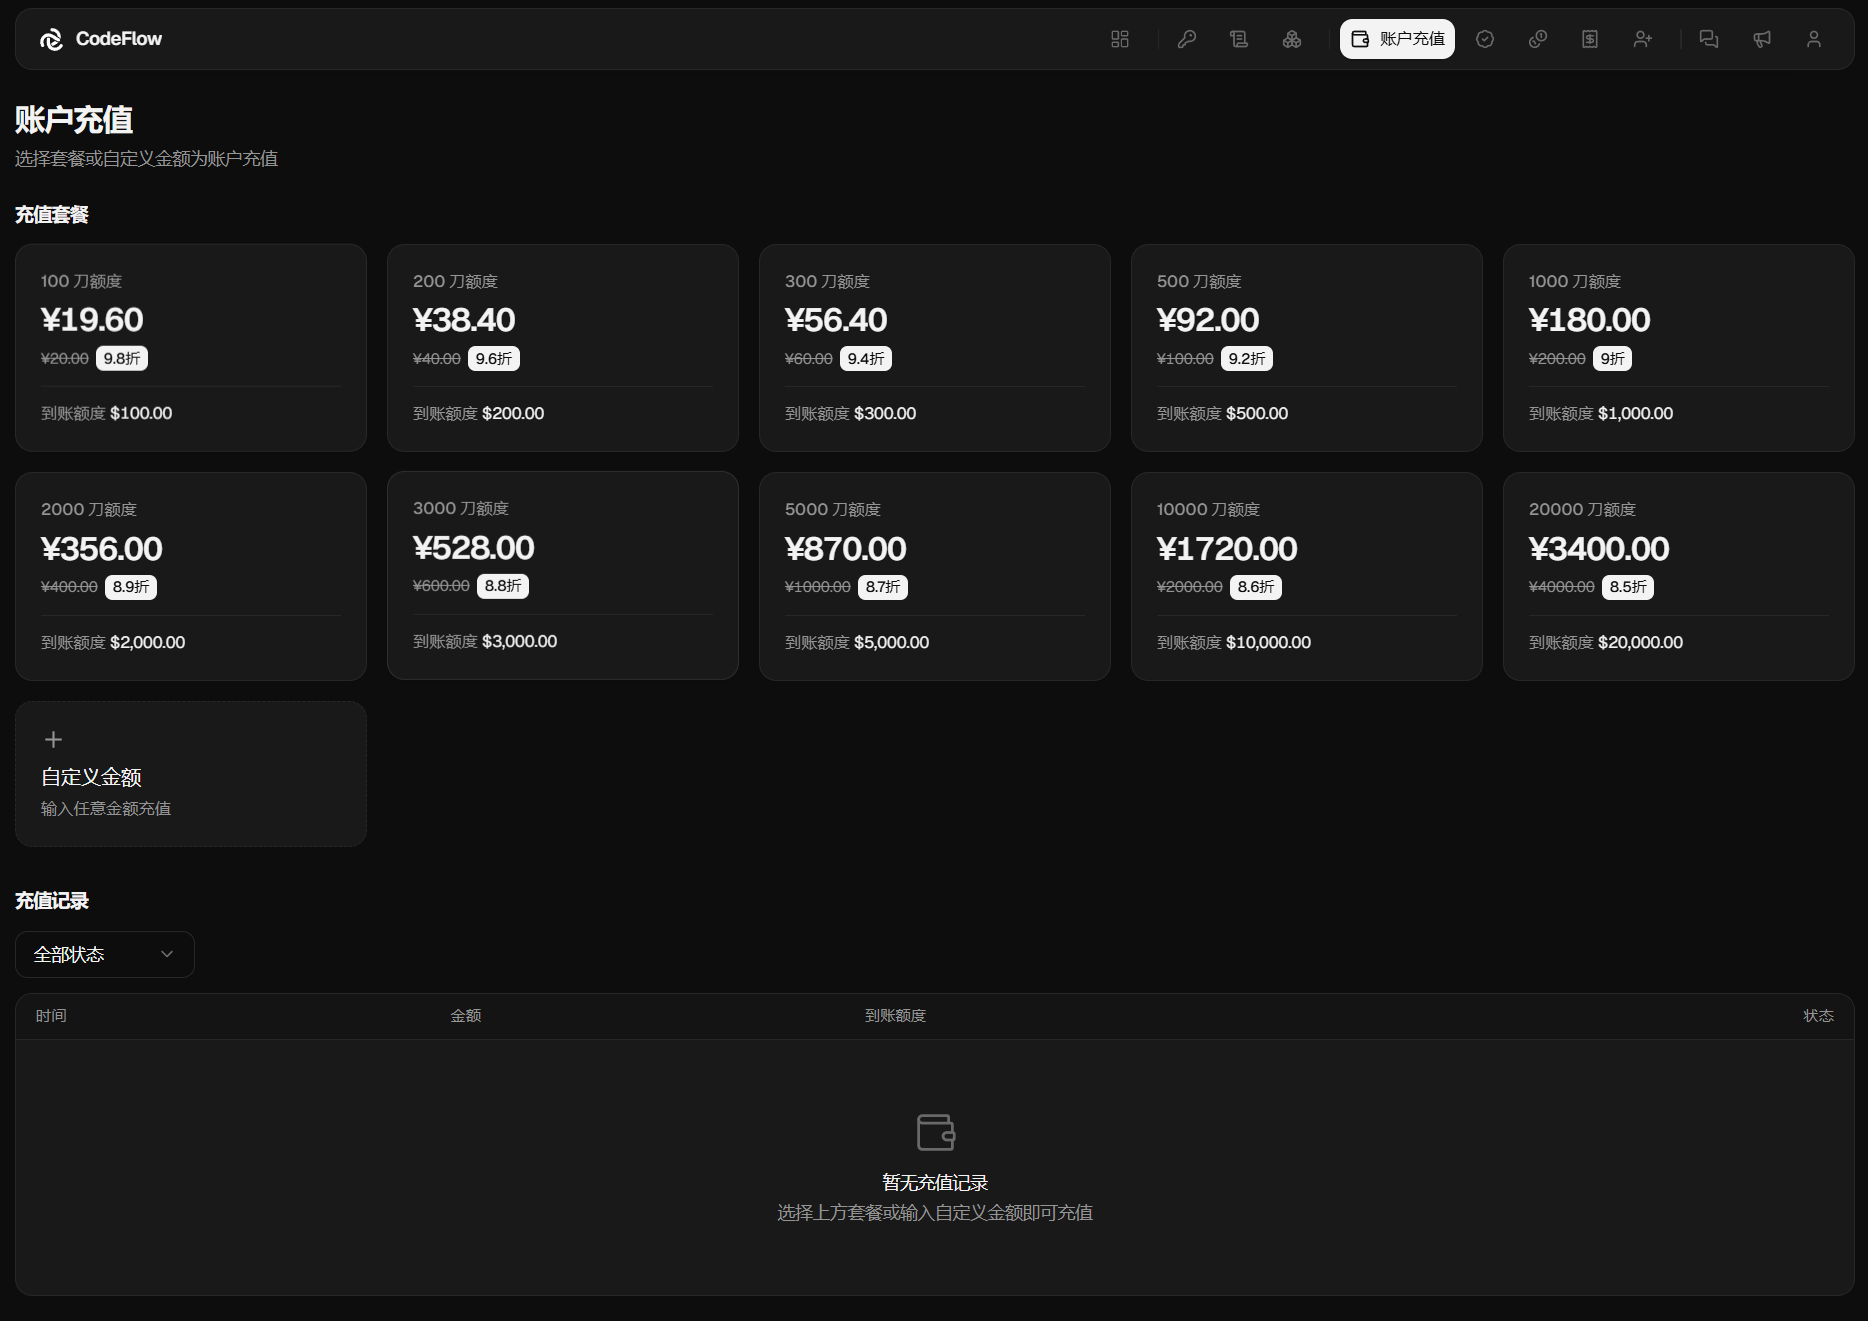
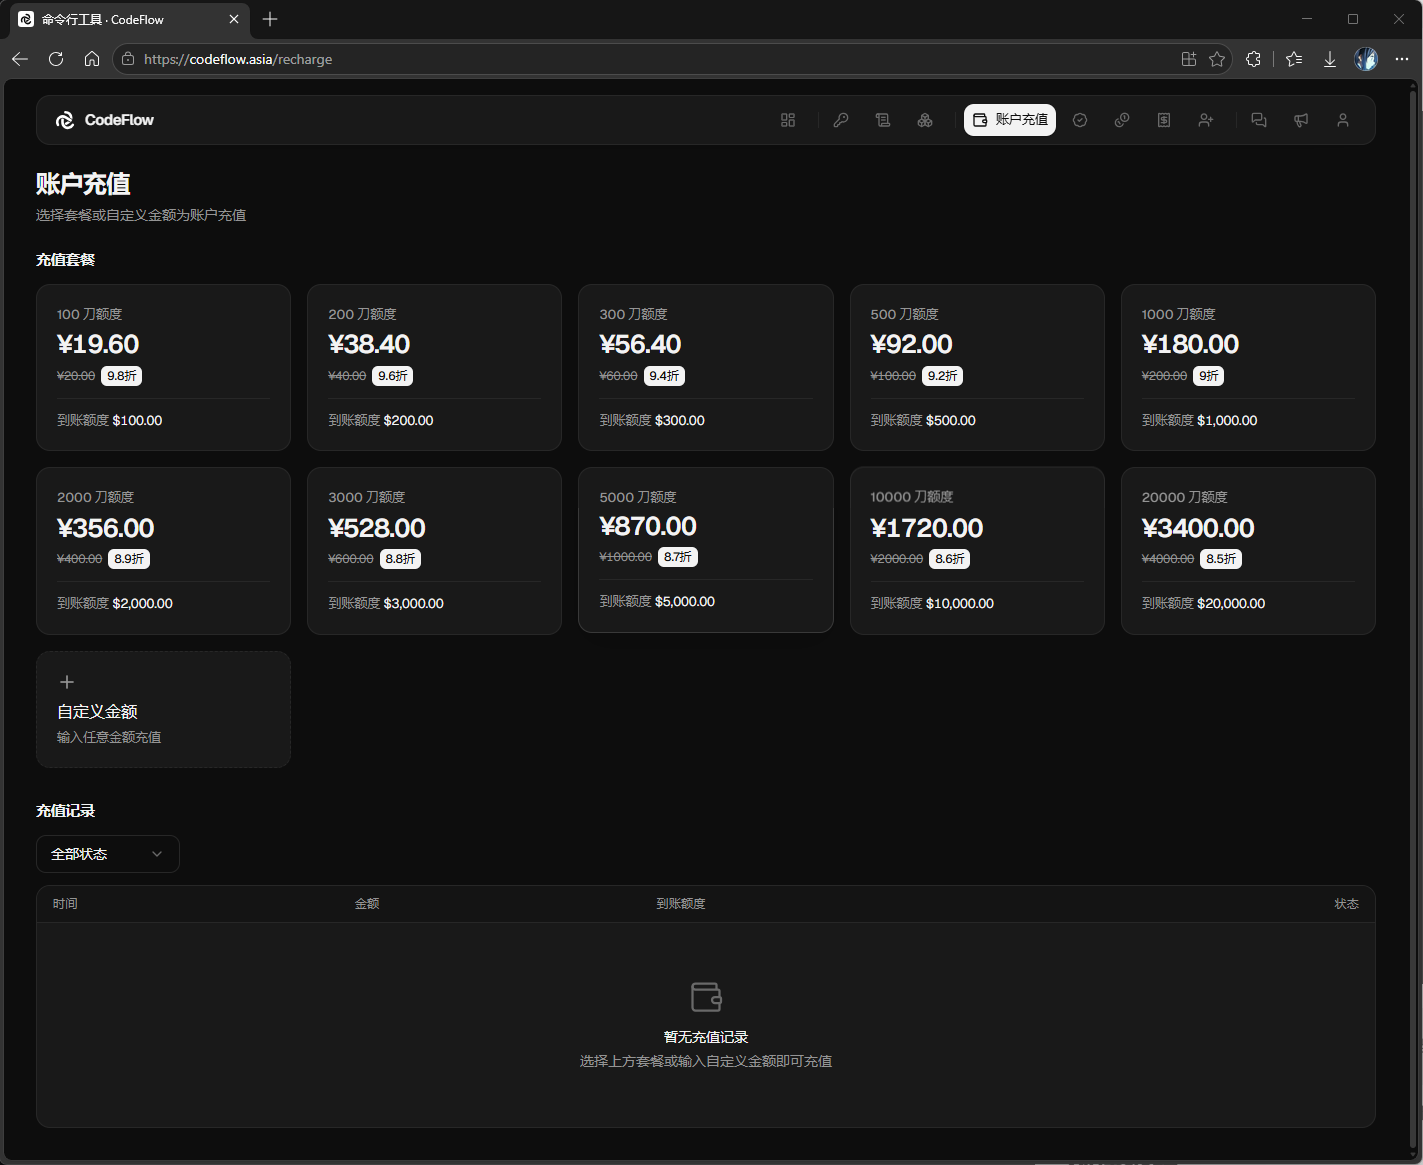
更新opencode,openclaw,快速开始页的核验日期和插图

diff --git a/guides/quick-start.md b/guides/quick-start.md
@@ -11,14 +11,14 @@
 > **数据来源与核验**
 > - **来源**：[{{SITE_NAME}}「充值优惠」]({{SITE_URL}}/#packages)
 > - **核验范围**：基础换算、充值套餐优惠与余额有效期
-> - **最后核验日期**：2026 年 8 月 18 日
+> - **最后核验日期**：2026 年 9 月 6 日
 
 进入 **账户充值**，选择预设档位或输入自定义金额，并按页面提示完成支付宝付款。付款成功后额度通常会自动到账；若长时间未到账，保留订单号并提交工单
 
 ![账户充值](/assets/images/quick-start/account-recharge.png)
 
 > **注意**
-> 上图为 2026 年 8 月 20 日的界面留档，未反映当前充值套餐折扣。换算比例、优惠、最低金额和余额有效期均可能调整，实际付款金额与到账额度以充值页面实时显示为准
+> 上图为 2026 年 9 月 6 日的界面留档，未反映当前充值套餐折扣。换算比例、优惠、最低金额和余额有效期均可能调整，实际付款金额与到账额度以充值页面实时显示为准
 
 除充值外，也可以在 **订阅套餐** 中购买套餐。两种计费方式的差异与预扣规则见[模型与计费](/guides/models-and-billing.md)
 

diff --git a/guides/openclaw.md b/guides/openclaw.md
@@ -3,7 +3,7 @@
 OpenClaw 是本地网关形态的代理工具。接入 {{SITE_NAME}} 时走 `anthropic-messages` 协议，接入地址（Base URL）不带 `/v1`
 
 > **注意**
-> 客户端界面与配置字段可能随版本更新变化，模型 ID 与可用分组以 {{SITE_NAME}} 控制台实时显示为准。本页依据 2026 年 8 月 20 日核验的信息整理
+> 客户端界面与配置字段可能随版本更新变化，模型 ID 与可用分组以 {{SITE_NAME}} 控制台实时显示为准。本页依据 2026 年 9 月 6 日核验的信息整理
 
 ## 准备工作
 
